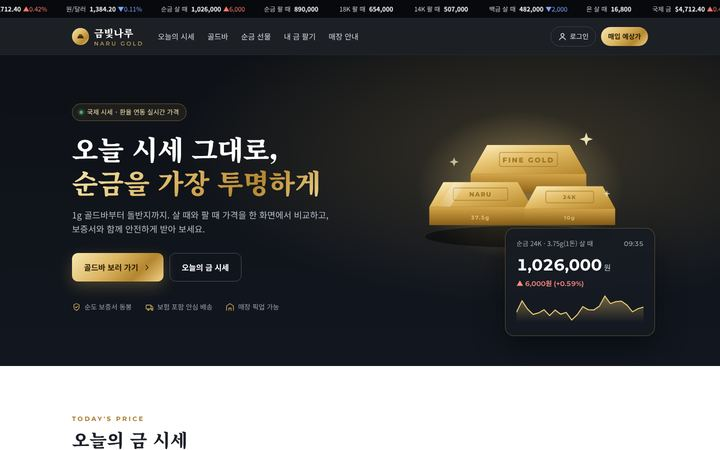
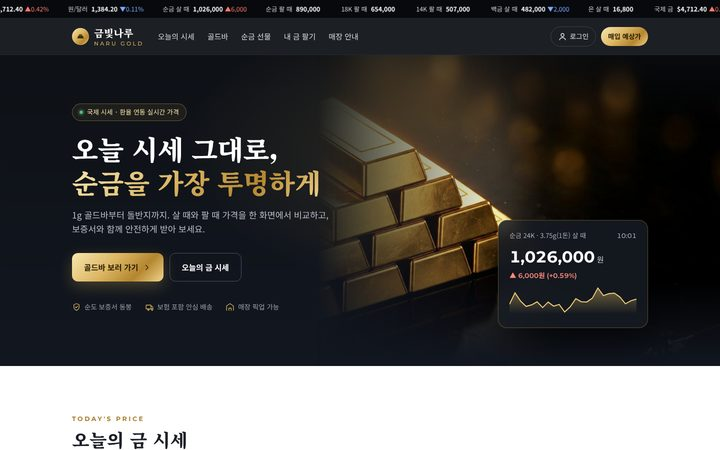
샘플: 11/26 금빛나루 골드 고화질 실사 사진 버전
Claude-Session: https://claude.ai/code/session_01TaoNa5v57Jr96f78vf2Ks9

diff --git a/samples/shop-gold-naru/index.html b/samples/shop-gold-naru/index.html
@@ -57,8 +57,13 @@ a{color:inherit;text-decoration:none}button{font:inherit;cursor:pointer;border:0
 .hero-meta{display:flex;gap:26px;margin-top:40px;font-size:13.5px;color:#9aa1ad}
 .hero-meta span{display:flex;align-items:center;gap:7px}.hero-meta svg{color:var(--g2)}
 .hero-art{position:relative;height:460px}
-.hero-art svg.bars{position:absolute;left:0;top:-20px;width:100%;height:380px}
-.pcard{position:absolute;right:-14px;bottom:-26px;width:300px;background:rgba(22,27,35,.86);backdrop-filter:blur(12px);border:1px solid rgba(217,178,92,.35);border-radius:18px;padding:20px 22px;box-shadow:0 24px 60px rgba(0,0,0,.45)}
+.hero-bg{position:absolute;top:0;right:0;bottom:0;width:56%;z-index:0}
+.hero-bg img{width:100%;height:100%;object-fit:cover;object-position:30% 50%;transform:scaleX(-1);display:block}
+.hero-bg{-webkit-mask-image:linear-gradient(90deg,transparent 0%,#000 48%);mask-image:linear-gradient(90deg,transparent 0%,#000 48%)}
+.hero-bg img{filter:brightness(1.08) contrast(1.05)}
+.hero-bg::after{content:"";position:absolute;inset:0;background:linear-gradient(0deg,#121720 0%,rgba(18,23,32,0) 28%),linear-gradient(180deg,rgba(14,17,22,.6) 0%,rgba(14,17,22,0) 22%)}
+.hero .wrap{position:relative;z-index:1}
+.pcard{position:absolute;right:0;bottom:-10px;width:300px;background:rgba(22,27,35,.86);backdrop-filter:blur(12px);border:1px solid rgba(217,178,92,.35);border-radius:18px;padding:20px 22px;box-shadow:0 24px 60px rgba(0,0,0,.45)}
 .pcard .t{display:flex;justify-content:space-between;font-size:13px;color:#a9b0bb}
 .pcard .p{font-size:32px;font-weight:700;color:#fff;margin:6px 0 2px;letter-spacing:-.01em}
 .pcard .p small{font-size:15px;color:#a9b0bb;font-weight:500;margin-left:4px;font-family:"Noto Sans KR"}
@@ -108,8 +113,11 @@ a{color:inherit;text-decoration:none}button{font:inherit;cursor:pointer;border:0
 .card:hover{transform:translateY(-4px);box-shadow:0 18px 40px rgba(60,44,10,.12)}
 .card .img{aspect-ratio:1/0.86;display:grid;place-items:center;position:relative;background:radial-gradient(circle at 50% 40%,#2a313d,#11151b)}
 .card .img.lt{background:radial-gradient(circle at 50% 40%,#fffaf0,#efe4cc)}
-.card .img svg{width:88%;height:88%}
-.tag{z-index:2;position:absolute;left:12px;top:12px;font-size:11.5px;font-weight:700;padding:4px 9px;border-radius:6px;background:rgba(255,255,255,.12);color:var(--g1);border:1px solid rgba(246,226,166,.35)}
+.card .img{overflow:hidden}.card .img img{position:absolute;inset:0;width:100%;height:100%;object-fit:cover;transition:transform .5s}
+.card:hover .img img{transform:scale(1.05)}
+.card .img .wt{position:absolute;right:12px;bottom:12px;z-index:2;font-size:13px;font-weight:700;color:#fff;background:rgba(10,12,16,.6);backdrop-filter:blur(6px);padding:4px 10px;border-radius:999px;border:1px solid rgba(255,255,255,.18)}
+.img.lt .wt{background:rgba(255,255,255,.75);color:#3a3f47;border-color:#e3dccd}
+.tag{z-index:2;position:absolute;left:12px;top:12px;font-size:11.5px;font-weight:700;padding:4px 9px;border-radius:6px;background:rgba(10,12,16,.82);color:var(--g1);border:1px solid rgba(246,226,166,.35);backdrop-filter:blur(4px)}
 .img.lt .tag{background:#fff;color:var(--g3);border-color:#e7d6aa}
 .card .info{padding:16px 18px 18px;display:flex;flex-direction:column;flex:1}
 .card .info b{font-size:15.5px;font-weight:700}
@@ -152,8 +160,16 @@ a{color:inherit;text-decoration:none}button{font:inherit;cursor:pointer;border:0
 .gcard{border-radius:22px;overflow:hidden;position:relative;min-height:240px;padding:28px;display:flex;flex-direction:column;justify-content:flex-end;color:#fff}
 .gcard.big{grid-row:span 2;min-height:500px}
 .gcard.wide{grid-column:span 2}
-.gcard svg.bg{position:absolute;inset:0;width:100%;height:100%;z-index:0}
-.gcard>*:not(svg){position:relative;z-index:1}
+.gcard img.bg{position:absolute;inset:0;width:100%;height:100%;object-fit:cover;z-index:0;transition:transform .6s}
+.gcard:hover img.bg{transform:scale(1.04)}
+.gcard::after{content:"";position:absolute;inset:0;z-index:0;background:linear-gradient(0deg,rgba(8,8,10,.94) 0%,rgba(8,8,10,.72) 34%,rgba(8,8,10,.15) 62%,rgba(8,8,10,0) 80%)}
+.gcard h3,.gcard p{text-shadow:0 2px 12px rgba(0,0,0,.6)}
+.gcard.side>*:not(img){max-width:62%}
+.gcard.side h3{font-size:20px;white-space:nowrap}.gcard.side p{font-size:13px}
+.gcard.side img.bg{left:auto;right:0;width:56%;object-position:62% center!important;-webkit-mask-image:linear-gradient(90deg,transparent 0%,#000 30%);mask-image:linear-gradient(90deg,transparent 0%,#000 30%)}
+.gcard.side.k{background:#0a1220}.gcard.side.c{background:#170a0d}
+.gcard.side::after{background:linear-gradient(90deg,rgba(8,8,10,.6) 0%,rgba(8,8,10,0) 45%)}
+.gcard>*:not(img){position:relative;z-index:1}
 .gcard .lb{font-family:Montserrat;font-size:12px;letter-spacing:.24em;color:var(--g1)}
 .gcard h3{font-family:"Noto Serif KR",serif;font-size:24px;font-weight:900;margin:6px 0 4px}
 .gcard.big h3{font-size:32px}
@@ -171,7 +187,7 @@ a{color:inherit;text-decoration:none}button{font:inherit;cursor:pointer;border:0
 .store{background:var(--paper)}
 .store .box{display:grid;grid-template-columns:1fr 1fr;border-radius:24px;overflow:hidden;border:1px solid var(--line);background:#fff}
 .store .map{min-height:340px;position:relative}
-.store .map svg{position:absolute;inset:0;width:100%;height:100%}
+.store .map img{position:absolute;inset:0;width:100%;height:100%;object-fit:cover}
 .store .inf{padding:40px}
 .store .inf h3{font-family:"Noto Serif KR",serif;font-size:26px;font-weight:900}
 .store dl{margin-top:22px;display:grid;grid-template-columns:90px 1fr;row-gap:14px;font-size:15px}
@@ -201,7 +217,13 @@ footer p{margin-top:12px;line-height:1.9}
  .hero .wrap{padding-top:44px;padding-bottom:40px;gap:12px}
  .hero h1{font-size:36px}.hero p.lead{font-size:15.5px}
  .hero-meta{flex-wrap:wrap;gap:10px 18px;margin-top:28px}
- .hero-art{height:auto}.hero-art svg.bars{position:relative;top:0;height:250px;margin:-10px 0 -16px}.pcard{position:relative;width:auto;left:0;right:0;bottom:0;padding:16px 18px}.pcard .p{font-size:26px}
+ .hero{background:#0e1116}.hero-bg{position:relative;width:auto;height:250px;margin:0 0 -90px;-webkit-mask-image:none;mask-image:none}.hero-bg::after{background:linear-gradient(0deg,#0e1116 0%,rgba(14,17,22,.6) 40%,rgba(14,17,22,0) 75%)}
+ .gcard:not(.big){min-height:300px}
+ .gcard.side>*:not(img){max-width:100%}
+ .gcard.side{justify-content:flex-end;padding-top:200px}
+ .gcard.side img.bg{width:100%;height:230px;-webkit-mask-image:linear-gradient(0deg,transparent 0%,#000 40%);mask-image:linear-gradient(0deg,transparent 0%,#000 40%)}
+ .gcard.side::after{background:none}
+ .hero-art{height:auto}.pcard{position:relative;width:auto;left:0;right:0;bottom:0;padding:16px 18px}.pcard .p{font-size:26px}
  .sec{padding:64px 0}.sec-h h2{font-size:28px}
  .ptable th,.ptable td{padding:13px 12px}.ptable td{font-size:15px}.ptable td .nm{font-size:14.5px;gap:9px}.dot{width:24px;height:24px}
  .ptable th:nth-child(4),.ptable td:nth-child(4){display:none}
@@ -242,6 +264,7 @@ footer p{margin-top:12px;line-height:1.9}
 </header>
 
 <section class="hero" id="top">
+  <div class="hero-bg" aria-hidden="true"><img src="img/hero.jpg" alt=""></div>
   <div class="wrap">
     <div>
       <span class="eyebrow"><i></i>국제 시세 · 환율 연동 실시간 가격</span>
@@ -258,45 +281,6 @@ footer p{margin-top:12px;line-height:1.9}
       </div>
     </div>
     <div class="hero-art">
-      <svg class="bars" viewBox="0 0 560 460" aria-hidden="true">
-        <defs>
-          <linearGradient id="gt" x1="0" y1="0" x2="1" y2="1"><stop offset="0" stop-color="#fff2c4"/><stop offset=".45" stop-color="#e2bc66"/><stop offset="1" stop-color="#b58629"/></linearGradient>
-          <linearGradient id="gf" x1="0" y1="0" x2="0" y2="1"><stop offset="0" stop-color="#d4a548"/><stop offset="1" stop-color="#8a6018"/></linearGradient>
-          <linearGradient id="gs" x1="0" y1="0" x2="1" y2="0"><stop offset="0" stop-color="#7a5414"/><stop offset="1" stop-color="#a8792a"/></linearGradient>
-          <radialGradient id="glow" cx=".5" cy=".5" r=".5"><stop offset="0" stop-color="#f3d27f" stop-opacity=".45"/><stop offset="1" stop-color="#f3d27f" stop-opacity="0"/></radialGradient>
-          <linearGradient id="shine" x1="0" y1="0" x2="1" y2="0"><stop offset="0" stop-color="#fff" stop-opacity="0"/><stop offset=".5" stop-color="#fff" stop-opacity=".55"/><stop offset="1" stop-color="#fff" stop-opacity="0"/></linearGradient>
-        </defs>
-        <ellipse cx="290" cy="250" rx="250" ry="180" fill="url(#glow)"/>
-        <ellipse cx="290" cy="372" rx="230" ry="26" fill="#000" opacity=".45"/>
-        <!-- back bar -->
-        <g transform="translate(170 150)">
-          <polygon points="40,0 240,0 280,70 0,70" fill="url(#gt)"/>
-          <polygon points="0,70 280,70 280,118 0,118" fill="url(#gf)"/>
-          <polygon points="280,70 280,118 300,92 300,50" fill="url(#gs)" opacity=".0"/>
-          <rect x="70" y="18" width="140" height="34" rx="4" fill="none" stroke="#9c7224" stroke-width="2" opacity=".6"/>
-          <text x="140" y="42" text-anchor="middle" font-family="Montserrat" font-weight="800" font-size="17" fill="#8b6219" opacity=".75" letter-spacing="3">FINE GOLD</text>
-          
-        </g>
-        <!-- front left bar -->
-        <g transform="translate(70 240)">
-          <polygon points="34,0 214,0 248,60 0,60" fill="url(#gt)"/>
-          <polygon points="0,60 248,60 248,104 0,104" fill="url(#gf)"/>
-          <rect x="58" y="14" width="132" height="30" rx="4" fill="none" stroke="#9c7224" stroke-width="2" opacity=".6"/>
-          <text x="124" y="35" text-anchor="middle" font-family="Montserrat" font-weight="800" font-size="15" fill="#8b6219" opacity=".75" letter-spacing="2">NARU</text>
-          <text x="124" y="90" text-anchor="middle" font-family="Montserrat" font-weight="700" font-size="13" fill="#f6dc96" opacity=".7" letter-spacing="2">37.5g</text>
-          <polygon points="60,0 90,0 50,60 20,60" fill="url(#shine)" opacity=".6"/>
-        </g>
-        <!-- front right bar -->
-        <g transform="translate(300 250)">
-          <polygon points="30,0 190,0 220,54 0,54" fill="url(#gt)"/>
-          <polygon points="0,54 220,54 220,94 0,94" fill="url(#gf)"/>
-          <rect x="52" y="12" width="116" height="28" rx="4" fill="none" stroke="#9c7224" stroke-width="2" opacity=".6"/>
-          <text x="110" y="31" text-anchor="middle" font-family="Montserrat" font-weight="800" font-size="13" fill="#8b6219" opacity=".75" letter-spacing="2">24K</text>
-          <text x="110" y="81" text-anchor="middle" font-family="Montserrat" font-weight="700" font-size="12" fill="#f6dc96" opacity=".7" letter-spacing="2">10g</text>
-        </g>
-        <!-- sparkles -->
-        <g fill="#fff3c8"><path d="M450 120l4 12 12 4-12 4-4 12-4-12-12-4 12-4z" opacity=".9"/><path d="M130 180l3 8 8 3-8 3-3 8-3-8-8-3 8-3z" opacity=".7"/><path d="M500 260l2 6 6 2-6 2-2 6-2-6-6-2 6-2z" opacity=".7"/></g>
-      </svg>
       <div class="pcard">
         <div class="t"><span>순금 24K · 3.75g(1돈) 살 때</span><span class="num" id="pcTime">--:--</span></div>
         <div class="p num" id="pcPrice">-<small>원</small></div>
@@ -369,19 +353,19 @@ footer p{margin-top:12px;line-height:1.9}
     <div class="sec-h"><div><div class="k">GOLD GIFT</div><h2>마음을 오래 남기는 순금 선물</h2><p>돌, 결혼, 승진, 감사의 순간에 어울리는 컬렉션.</p></div></div>
     <div class="gift-grid">
       <div class="gcard big">
-        <svg class="bg" viewBox="0 0 500 520" preserveAspectRatio="xMidYMin slice" aria-hidden="true"><defs><linearGradient id="b1" x1="0" y1="0" x2="1" y2="1"><stop offset="0" stop-color="#3b2a12"/><stop offset="1" stop-color="#120d06"/></linearGradient><linearGradient id="r1" x1="0" y1="0" x2="1" y2="1"><stop offset="0" stop-color="#fff0b8"/><stop offset=".5" stop-color="#e0b658"/><stop offset="1" stop-color="#9c6d1e"/></linearGradient></defs><rect width="500" height="520" fill="url(#b1)"/><circle cx="380" cy="130" r="170" fill="#e0b658" opacity=".08"/><g transform="translate(250 160)"><ellipse rx="96" ry="96" fill="none" stroke="url(#r1)" stroke-width="26"/><ellipse rx="96" ry="96" fill="none" stroke="#fff6d4" stroke-width="3" opacity=".5" stroke-dasharray="60 540"/><g transform="translate(0 -104)"><circle r="20" fill="url(#r1)"/><path d="M-8 -2l8-10 8 10-8 12z" fill="#fff6d4" opacity=".7"/></g></g><g transform="translate(335 250) rotate(18)"><ellipse rx="54" ry="54" fill="none" stroke="url(#r1)" stroke-width="15"/></g><rect y="300" width="500" height="220" fill="url(#b1)" opacity=".0"/><defs><linearGradient id="fd" x1="0" y1="0" x2="0" y2="1"><stop offset="0" stop-color="#0b0804" stop-opacity="0"/><stop offset="1" stop-color="#0b0804" stop-opacity=".85"/></linearGradient></defs><rect y="250" width="500" height="270" fill="url(#fd)"/></svg>
+        <img class="bg" src="img/gift-ring.jpg" alt="" loading="lazy" style="object-position:50% 30%">
         <span class="lb">FIRST BIRTHDAY</span><h3>순금 돌반지</h3><p>1돈 · 반돈 · 3.75g 아기 반지, 각인 무료 · 선물 케이스 포함</p><a href="#">컬렉션 보기<svg class="ico" viewBox="0 0 24 24"><path d="m9 6 6 6-6 6"/></svg></a>
       </div>
-      <div class="gcard">
-        <svg class="bg" viewBox="0 0 400 260" preserveAspectRatio="xMidYMid slice" aria-hidden="true"><defs><linearGradient id="b2" x1="0" y1="0" x2="1" y2="1"><stop offset="0" stop-color="#1c2836"/><stop offset="1" stop-color="#0d131b"/></linearGradient></defs><rect width="400" height="260" fill="url(#b2)"/><g transform="translate(290 90) rotate(-28)" fill="url(#r1)"><circle r="30"/><circle r="13" fill="#1c2836"/><rect x="24" y="-8" width="80" height="16" rx="4"/><rect x="84" y="8" width="10" height="16"/><rect x="66" y="8" width="10" height="12"/></g></svg>
+      <div class="gcard side k">
+        <img class="bg" src="img/gift-key.jpg" alt="" loading="lazy" style="object-position:60% 15%">
         <span class="lb">LUCKY KEY</span><h3>행운의 황금열쇠</h3><p>승진·개업·퇴임 기념 선물</p>
       </div>
-      <div class="gcard">
-        <svg class="bg" viewBox="0 0 400 260" preserveAspectRatio="xMidYMid slice" aria-hidden="true"><defs><linearGradient id="b3" x1="0" y1="0" x2="1" y2="1"><stop offset="0" stop-color="#3a1d22"/><stop offset="1" stop-color="#150a0c"/></linearGradient></defs><rect width="400" height="260" fill="url(#b3)"/><g transform="translate(250 30) rotate(12)"><rect width="110" height="150" rx="10" fill="url(#r1)"/><rect x="12" y="12" width="86" height="126" rx="6" fill="none" stroke="#8a5f17" stroke-width="2" opacity=".5"/><path d="M55 50c-12-16-34-4-22 14l22 22 22-22c12-18-10-30-22-14z" fill="#9c6d1e" opacity=".55"/></g></svg>
+      <div class="gcard side c">
+        <img class="bg" src="img/gift-card.jpg" alt="" loading="lazy" style="object-position:70% 20%">
         <span class="lb">GOLD CARD</span><h3>순금 감사 카드</h3><p>부모님·스승님께 드리는 1g 카드</p>
       </div>
       <div class="gcard wide">
-        <svg class="bg" viewBox="0 0 800 260" preserveAspectRatio="xMaxYMid slice" aria-hidden="true"><defs><linearGradient id="b4" x1="0" y1="0" x2="1" y2="0"><stop offset="0" stop-color="#14181f"/><stop offset="1" stop-color="#2a2215"/></linearGradient></defs><rect width="800" height="260" fill="url(#b4)"/><g transform="translate(600 22) scale(.82)"><circle r="44" cx="0" cy="60" fill="url(#r1)"/><circle r="44" cx="70" cy="40" fill="url(#r1)" opacity=".9"/><circle r="44" cx="140" cy="70" fill="url(#r1)" opacity=".8"/><text x="0" y="66" text-anchor="middle" font-family="Montserrat" font-weight="800" font-size="16" fill="#8a5f17">1g</text><text x="70" y="46" text-anchor="middle" font-family="Montserrat" font-weight="800" font-size="16" fill="#8a5f17">2g</text><text x="140" y="76" text-anchor="middle" font-family="Montserrat" font-weight="800" font-size="16" fill="#8a5f17">5g</text></g></svg>
+        <img class="bg" src="img/gift-coins.jpg" alt="" loading="lazy" style="object-position:85% 20%">
         <span class="lb">MONTHLY SAVING</span><h3>매달 1g씩, 금 적금 패키지</h3><p>정해진 날 자동 주문 · 모아서 한 번에 배송</p>
       </div>
     </div>
@@ -402,9 +386,7 @@ footer p{margin-top:12px;line-height:1.9}
 <section class="sec store" id="store">
   <div class="wrap">
     <div class="box">
-      <div class="map">
-        <svg viewBox="0 0 600 400" preserveAspectRatio="xMidYMid slice" aria-hidden="true"><rect width="600" height="400" fill="#efe9dc"/><g stroke="#fff" stroke-width="22" fill="none"><path d="M-20 260 L620 200"/><path d="M220 -20 L280 420"/><path d="M420 -20 L380 420"/></g><g stroke="#fff" stroke-width="9" fill="none"><path d="M-20 90 L620 130"/><path d="M80 -20 L120 420"/><path d="M-20 350 L620 330"/></g><g fill="#e1d8c4"><rect x="135" y="140" width="70" height="50" rx="4"/><rect x="300" y="60" width="90" height="56" rx="4"/><rect x="440" y="230" width="110" height="70" rx="4"/><rect x="140" y="280" width="60" height="44" rx="4"/></g><rect x="300" y="250" width="70" height="55" rx="4" fill="#cfe0c4"/><g transform="translate(330 205)"><path d="M0 0c-18 0-30 13-30 29 0 22 30 47 30 47s30-25 30-47C30 13 18 0 0 0z" fill="#0e1116"/><circle cy="28" r="11" fill="#e2bc66"/></g></svg>
-      </div>
+      <div class="map"><img src="img/store.jpg" alt="매장 내부" loading="lazy"></div>
       <div class="inf">
         <h3>금빛나루 본점</h3>
         <dl>
@@ -466,20 +448,11 @@ footer p{margin-top:12px;line-height:1.9}
   /* products */
   var gram=P.g24.buy/3.75;
   var items=[{w:1,f:'mini',pm:1.09},{w:3.75,f:'mini',pm:1.06,n:'1돈'},{w:10,f:'mini',pm:1.045},{w:18.75,f:'bar',pm:1.04,n:'5돈'},{w:37.5,f:'bar',pm:1.035,n:'10돈'},{w:100,f:'bar',pm:1.03},{w:375,f:'bar',pm:1.025,n:'100돈'},{w:100,f:'ag',ag:1,pm:1.25}];
-  function barSVG(w,ag,i){var c1=ag?'#ffffff':'#fff0bf',c2=ag?'#c9ced6':'#ddb55e',c3=ag?'#8d939d':'#9f7322',lb=ag?'#f4f6f9':'#fff2c6',ink=ag?'#6f7680':'#7d5714';
-    var d='<defs><linearGradient id="t'+i+'" x1="0" y1="0" x2="1" y2="1"><stop offset="0" stop-color="'+c1+'"/><stop offset=".5" stop-color="'+c2+'"/><stop offset="1" stop-color="'+c3+'"/></linearGradient><linearGradient id="f'+i+'" x1="0" y1="0" x2="0" y2="1"><stop offset="0" stop-color="'+c2+'"/><stop offset="1" stop-color="'+c3+'"/></linearGradient></defs>';
-    var wl=(w+'g'),body;
-    if(w<=4){ /* minted card */
-      body='<ellipse cx="100" cy="150" rx="46" ry="8" fill="#000" opacity=".35"/><g transform="translate(15 22) scale(.85) rotate(-8 100 86)"><rect x="62" y="22" width="76" height="122" rx="9" fill="url(#t'+i+')"/><rect x="70" y="30" width="60" height="106" rx="6" fill="none" stroke="'+ink+'" stroke-width="1.4" opacity=".55"/><circle cx="100" cy="66" r="17" fill="none" stroke="'+ink+'" stroke-width="1.6" opacity=".6"/><path d="M92 70l8-12 8 12z" fill="'+ink+'" opacity=".5"/><text x="100" y="108" text-anchor="middle" font-family="Montserrat" font-weight="800" font-size="16" fill="'+ink+'">'+wl+'</text><text x="100" y="124" text-anchor="middle" font-family="Montserrat" font-weight="700" font-size="11" letter-spacing="1" fill="'+ink+'" opacity=".8">999.9</text></g>';
-    }else if(w<=40){ /* stamped bar */
-      body='<ellipse cx="100" cy="146" rx="84" ry="10" fill="#000" opacity=".35"/><g transform="translate(14 46)"><polygon points="24,0 148,0 172,48 0,48" fill="url(#t'+i+')"/><polygon points="0,48 172,48 172,86 0,86" fill="url(#f'+i+')"/><rect x="40" y="10" width="92" height="28" rx="3" fill="none" stroke="'+ink+'" stroke-width="1.6" opacity=".6"/><text x="86" y="29" text-anchor="middle" font-family="Montserrat" font-weight="800" font-size="12" letter-spacing="1.5" fill="'+ink+'">FINE GOLD</text><text x="86" y="73" text-anchor="middle" font-family="Montserrat" font-weight="800" font-size="15" fill="'+lb+'">'+wl+'</text></g>';
-    }else{ /* cast ingot */
-      body='<ellipse cx="100" cy="148" rx="90" ry="11" fill="#000" opacity=".38"/><g transform="translate(8 34)"><path d="M30 4 Q92 -4 154 4 L180 70 Q92 78 4 70 Z" fill="url(#t'+i+')"/><path d="M4 70 Q92 78 180 70 L184 104 Q92 114 0 104 Z" fill="url(#f'+i+')"/><path d="M44 18 Q92 12 140 18" stroke="#fff" stroke-opacity=".45" stroke-width="3" fill="none" stroke-linecap="round"/><text x="92" y="50" text-anchor="middle" font-family="Montserrat" font-weight="800" font-size="13" letter-spacing="2" fill="'+ink+'">'+(ag?'FINE SILVER':'FINE GOLD')+'</text><text x="92" y="98" text-anchor="middle" font-family="Montserrat" font-weight="800" font-size="15" fill="'+lb+'">'+wl+'</text></g>';
-    }
-    return '<svg viewBox="0 0 200 172">'+d+body+'</svg>'}
+  var IMG={1:'bar-1g',3.75:'bar-3g',10:'bar-10g',18.75:'bar-18g',37.5:'bar-37g',100:'bar-100g',375:'bar-375g'};
+  function barIMG(w,ag){var f=ag?'bar-silver':IMG[w];return '<img src="img/'+f+'.jpg" alt="'+(ag?'실버바':'골드바')+' '+w+'g" loading="lazy"><span class="wt num">'+w+'g</span>'}
   function render(f){document.getElementById('grid').innerHTML=items.filter(function(x){return f==='all'||x.f===f}).map(function(x,i){
     var pr=x.ag?P.ag.buy/3.75*x.w*x.pm:gram*x.w*x.pm;
-    return '<article class="card"><div class="img'+(x.ag?' lt':'')+'"><span class="tag">'+(x.ag?'Ag 99.99':'24K 99.99')+'</span>'+barSVG(x.w,x.ag,i)+'</div><div class="info"><b>'+(x.ag?'실버바 ':'골드바 ')+x.w+'g'+(x.n?' ('+x.n+')':'')+'</b><span class="sp">보증서 · 고급 케이스 포함</span><div class="pr num">'+won(Math.round(pr/100)*100)+'<small>원</small></div><div class="act"><button>장바구니</button><button class="c">바로 구매</button></div></div></article>'}).join('')}
+    return '<article class="card"><div class="img'+(x.ag?' lt':'')+'"><span class="tag">'+(x.ag?'Ag 99.99':'24K 99.99')+'</span>'+barIMG(x.w,x.ag)+'</div><div class="info"><b>'+(x.ag?'실버바 ':'골드바 ')+x.w+'g'+(x.n?' ('+x.n+')':'')+'</b><span class="sp">보증서 · 고급 케이스 포함</span><div class="pr num">'+won(Math.round(pr/100)*100)+'<small>원</small></div><div class="act"><button>장바구니</button><button class="c">바로 구매</button></div></div></article>'}).join('')}
   render('all');
   document.getElementById('ftabs').addEventListener('click',function(e){var b=e.target.closest('button');if(!b)return;[].forEach.call(this.children,function(x){x.classList.toggle('on',x===b)});render(b.dataset.f)});
   /* calculator */
